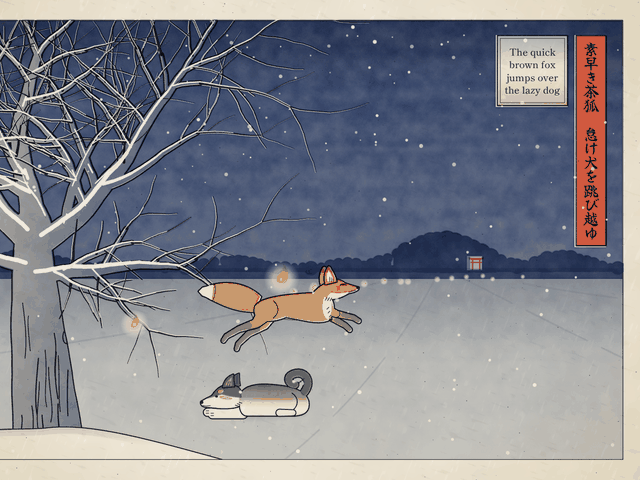
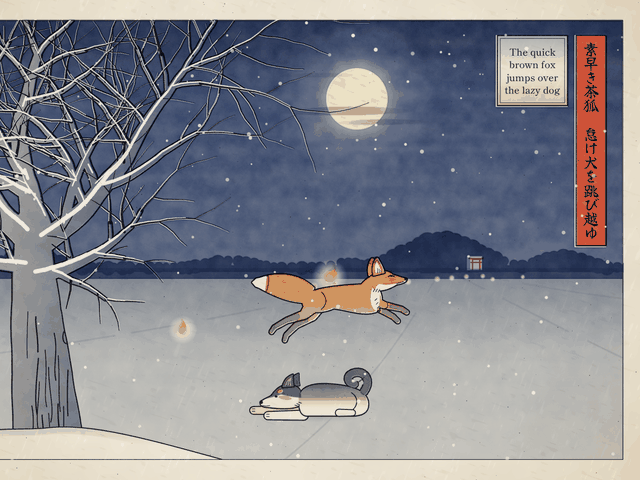
Ukiyo-e: a full moon, a tail that grows from the body, the dog moved right
Adds a full moon with a soft halo and bands of cloud. The fox's tail is
now part of the body outline, so there is no seam at its root. The dog
moves right of centre, with its two front paws clearly apart, and the
fox's leap moves with it, clear of the tree's lower limbs and a little
higher over the dog's tail.

Claude-Session: https://claude.ai/code/session_01TbJLADuK1rRcatXKhTWETe

diff --git a/public/the-quick-brown-fox-jumps-over-the-lazy-dog/ukiyoe.html b/public/the-quick-brown-fox-jumps-over-the-lazy-dog/ukiyoe.html
@@ -21,17 +21,18 @@ body{min-height:100vh;min-height:100dvh;display:grid;grid-template-rows:1fr;plac
 <body>
 <a class="back" href="/the-quick-brown-fox-jumps-over-the-lazy-dog" aria-label="All versions"><svg width="14" height="14" viewBox="0 0 14 14" aria-hidden="true" style="display:block"><path d="M11.5 7h-9M6 3 2.5 7 6 11" fill="none" stroke="currentColor" stroke-width="1.5" stroke-linecap="round" stroke-linejoin="round"/></svg></a>
 <div class="sheet">
-  <canvas id="print" role="img" aria-label="A woodblock print in the style of Hiroshige: on a snowy winter night, beneath a great bare tree and a deep blue sky, a brown fox carrying fox fires leaps over a black-and-tan shiba asleep in the snow. A red title strip reads, in Japanese, the quick brown fox jumps over the lazy dog."></canvas>
+  <canvas id="print" role="img" aria-label="A woodblock print in the style of Hiroshige: on a snowy winter night under a full moon, beside a great bare tree, a brown fox carrying fox fires leaps over a black-and-tan shiba asleep in the snow. A red title strip reads, in Japanese, the quick brown fox jumps over the lazy dog."></canvas>
 </div>
 <script>
 (() => {
 'use strict';
 /* The print is laid out on a 1500 x 1000 sheet (a horizontal oban). */
 const LW = 1500, LH = 1000, FPS = 12, CYCLE = 6.4, G = 862, HZ = 560;
+const MOON = { x: 905, y: 205, r: 64 };
 const IMG = { x: 42, y: 42, w: 1416, h: 916 };
 const reduce = matchMedia('(prefers-reduced-motion: reduce)').matches;
 const params = new URLSearchParams(location.search);
-const frozen = params.has('t') ? Number(params.get('t')) : (reduce ? 2.15 : null);
+const frozen = params.has('t') ? Number(params.get('t')) : (reduce ? 2.4 : null);
 
 const sheet = document.querySelector('.sheet');
 const view = document.getElementById('print');
@@ -215,7 +216,7 @@ function foxRig(pose, X, air) {
   const hc = Math.cos(-pose.head), hs = Math.sin(-pose.head);
   const N = [60, -30];
   const TH = (x, y) => { const [u, v] = R(N[0] * st + x * hc - y * hs, N[1] + x * hs + y * hc); return [u + tx, v + ty]; };
-  const TT = (x, y) => { const [u, v] = R(-76 * st + x, -8 + y); return [u + tx, v + ty]; };
+  const TT = (x, y) => { const [u, v] = R(-66 * st + x, -8 + y); return [u + tx, v + ty]; };
   for (const l of Object.values(legs)) l.pts = l.pts.map(([x, y]) => [x + tx, y + ty]);
   return { T, TH, TT, legs, pose, ground: ty + low };
 }
@@ -281,8 +282,8 @@ function drawFox(rig) {
   // Far legs, a shade lighter.
   figure({ shapes: [{ p: legPath(legs.fh) }, { p: legPath(legs.ff) }], fills: [['ochre', 0.62]],
     after: () => { const p = new Path2D(); p.addPath(lowerLegPath(legs.fh, 1)); p.addPath(lowerLegPath(legs.ff, 1)); ink('usuD', (x) => { x.fillStyle = white(0.95); x.fill(p); }); } });
-  figure({ shapes: [{ p: tail.all }], fills: [['ochre', (x) => { const [a, b] = rig.TT(0, -20), [c, d] = rig.TT(...tail.end); const g = x.createLinearGradient(a, b, c, d); g.addColorStop(0, white(1)); g.addColorStop(1, white(0.7)); return g; }]],
-    after: () => {
+  // The tail is part of the body's outline, so no seam shows where it joins.
+  const tailAfter = () => {
       ink('ochre', (x) => { x.globalCompositeOperation = 'destination-out'; x.fill(tail.tip); });
       // Fur lines where the white tip begins.
       ink('keyD', (x) => {
@@ -295,11 +296,12 @@ function drawFox(rig) {
         const [a, b] = rig.TT(...tail.left[i]), [c, d] = rig.TT(...tail.right[i]);
         x.beginPath(); x.moveTo(a, b); x.quadraticCurveTo((a + c) / 2 + (d - b) * 0.15, (b + d) / 2 - (c - a) * 0.15, c, d); x.lineWidth = 1.3; x.stroke();
       });
-    } });
+  };
   figure({ shapes: [{ p: ear(-10) }], fills: [['ochre', 0.85]], after: () => ink('usuD', earTip(-10)) });
   const back = (x) => { const [a, b] = T(0, -36 - arch), [c, d] = T(0, 32); const g = x.createLinearGradient(a, b, c, d); g.addColorStop(0, white(1)); g.addColorStop(0.55, white(0.82)); g.addColorStop(1, white(0.62)); return g; };
-  figure({ shapes: [{ p: torso }, { p: neck }, { p: head }, { p: legPath(legs.nh) }, { p: legPath(legs.nf) }], fills: [['ochre', back]],
+  figure({ shapes: [{ p: tail.all }, { p: torso }, { p: neck }, { p: head }, { p: legPath(legs.nh) }, { p: legPath(legs.nf) }], fills: [['ochre', back]],
     after: () => {
+      tailAfter();
       // White chest, throat and cheek: carved out of the brown block.
       ink('ochre', (x) => {
         x.globalCompositeOperation = 'destination-out';
@@ -335,7 +337,7 @@ function drawFox(rig) {
 }
 
 /* ---------- the dog ---------- */
-const DOG_X = 706;
+const DOG_X = 830;
 function drawDog(t, alert) {
   /* A black-and-tan shiba asleep in the snow, facing left: chin on its paws, ears relaxed back,
      tail curled over its back. Black saddle, tan brows and cheeks, white (urajiro) underneath. */
@@ -346,14 +348,12 @@ function drawDog(t, alert) {
   // A hollow pressed into the snow.
   ink('usuD', (x) => { x.save(); x.translate(DOG_X - 10, G + 4); x.scale(1, 0.16); const g = x.createRadialGradient(0, 0, 10, 0, 0, 130); g.addColorStop(0, white(0.5)); g.addColorStop(1, white(0)); x.fillStyle = g; x.beginPath(); x.arc(0, 0, 130, 0, Math.PI * 2); x.fill(); x.restore(); });
 
-  // Front paws, white socks, reaching out under the chin.
-  const paws = new Path2D();
-  capsule(paws, ...Tf(-50, -7), 9.5, ...Tf(-114, -5), 7.5);
-  capsule(paws, ...Tf(-40, -2), 9.5, ...Tf(-104, 0), 7.5);
-  figure({ shapes: [{ p: paws }], kw: 2.2, after: () => ink('keyD', (x) => {
-    x.strokeStyle = '#fff'; x.lineWidth = 1.2;
-    for (const [px, py] of [[-114, -5], [-104, 0]]) for (const d of [-3, 2]) { x.beginPath(); x.moveTo(...Tf(px + 3, py + d)); x.lineTo(...Tf(px - 3, py + d)); x.stroke(); }
-  }) });
+  // Front paws: the far one stretched out past the muzzle, the near one drawn back under the chest.
+  const farPaw = new Path2D(); capsule(farPaw, ...Tf(-46, -10), 8.5, ...Tf(-142, -9), 7);
+  const nearPaw = new Path2D(); capsule(nearPaw, ...Tf(-38, 1), 9.5, ...Tf(-112, 2), 7.5);
+  const toes = (px, py) => ink('keyD', (x) => { x.strokeStyle = '#fff'; x.lineWidth = 1.2; for (const d of [-3, 2]) { x.beginPath(); x.moveTo(...Tf(px + 3, py + d)); x.lineTo(...Tf(px - 3, py + d)); x.stroke(); } });
+  figure({ shapes: [{ p: farPaw }], kw: 2.1, fills: [['ochre', 0.3]], after: () => toes(-142, -9) });
+  figure({ shapes: [{ p: nearPaw }], kw: 2.2, after: () => toes(-112, 2) });
 
   // Ears: rounded triangles, set back in sleep, pricking up when the fox passes.
   const lift = alert ? 1 : 0;
@@ -465,7 +465,7 @@ function growTree() {
   limb(crown.bx - 10, crown.by + 30, -2.45, 330, 54, 16, 3, 0.025, 0.3);
   limb(crown.bx, crown.by, -1.75, 360, 52, 16, 3, 0.01, 0.3);
   limb(crown.bx + 18, crown.by + 40, -0.62, 470, 48, 12, 3, 0.006, 0.3);
-  limb(crown.bx + 6, crown.by + 110, -0.25, 300, 32, 9, 2, 0.02, 0.3);
+  limb(crown.bx + 6, crown.by + 110, -0.35, 230, 32, 9, 2, 0.02, 0.3);
   limb(crown.bx - 14, crown.by + 90, -2.9, 200, 28, 9, 2, -0.03, 0.3);
   return segs;
 }
@@ -478,7 +478,23 @@ function drawStatic() {
   ink('blue', (x) => { x.save(); x.beginPath(); x.rect(IMG.x, IMG.y, IMG.w, IMG.h); x.clip(); const g = x.createLinearGradient(0, IMG.y, 0, HZ + 20); g.addColorStop(0, white(1)); g.addColorStop(1, white(0.78)); x.fillStyle = g; x.fillRect(IMG.x, IMG.y, IMG.w, HZ + 20 - IMG.y); x.restore(); });
   ink('usu', (x) => { x.save(); x.beginPath(); x.rect(IMG.x, IMG.y, IMG.w, IMG.h); x.clip(); const g = x.createLinearGradient(0, IMG.y, 0, HZ + 20); g.addColorStop(0, white(1)); g.addColorStop(0.08, white(0.95)); g.addColorStop(0.26, white(0.42)); g.addColorStop(1, white(0.2)); x.fillStyle = g; x.fillRect(IMG.x, IMG.y, IMG.w, HZ + 20 - IMG.y); x.restore(); });
   // Stars.
-  ink('gof', (x) => { x.save(); x.beginPath(); x.rect(IMG.x, IMG.y, IMG.w, IMG.h); x.clip(); for (let i = 0; i < 90; i++) { const sx = IMG.x + r() * IMG.w, sy = IMG.y + 30 + r() * (HZ - 120 - IMG.y); x.fillStyle = white(0.55 + r() * 0.4); x.beginPath(); x.arc(sx, sy, 0.9 + r() * 1.5, 0, Math.PI * 2); x.fill(); } x.restore(); });
+  ink('gof', (x) => { x.save(); x.beginPath(); x.rect(IMG.x, IMG.y, IMG.w, IMG.h); x.clip(); for (let i = 0; i < 90; i++) { const sx = IMG.x + r() * IMG.w, sy = IMG.y + 30 + r() * (HZ - 120 - IMG.y); if (Math.hypot(sx - MOON.x, sy - MOON.y) < MOON.r * 2.6) continue; x.fillStyle = white(0.55 + r() * 0.4); x.beginPath(); x.arc(sx, sy, 0.9 + r() * 1.5, 0, Math.PI * 2); x.fill(); } x.restore(); });
+
+  // The full moon: carved out of the night blocks, with a soft halo and a band of cloud across it.
+  ['blue', 'usu'].forEach((n) => ink(n, (x) => {
+    x.globalCompositeOperation = 'destination-out';
+    const g = x.createRadialGradient(MOON.x, MOON.y, MOON.r, MOON.x, MOON.y, MOON.r * 2.6);
+    g.addColorStop(0, white(n === 'usu' ? 0.85 : 0.45)); g.addColorStop(0.25, white(n === 'usu' ? 0.5 : 0.2)); g.addColorStop(1, white(0));
+    x.fillStyle = g; x.beginPath(); x.arc(MOON.x, MOON.y, MOON.r * 2.6, 0, Math.PI * 2); x.fill();
+    x.fillStyle = white(1); x.beginPath(); x.arc(MOON.x, MOON.y, MOON.r, 0, Math.PI * 2); x.fill();
+  }));
+  const cloud = (cx, cy, w, h) => { const p = new Path2D(); p.moveTo(cx - w / 2, cy); p.bezierCurveTo(cx - w / 4, cy - h, cx + w / 4, cy - h * 1.1, cx + w / 2, cy - h * 0.2); p.bezierCurveTo(cx + w / 4, cy + h * 0.5, cx - w / 4, cy + h * 0.6, cx - w / 2, cy); return p; };
+  ink('usu', (x) => {
+    for (const [cx, cy, w, h, a] of [[880, 236, 300, 15, 0.75], [960, 258, 210, 10, 0.6], [820, 160, 170, 8, 0.4]]) {
+      const g = x.createLinearGradient(cx - w / 2, 0, cx + w / 2, 0); g.addColorStop(0, white(0)); g.addColorStop(0.3, white(a)); g.addColorStop(0.7, white(a)); g.addColorStop(1, white(0));
+      x.fillStyle = g; x.fill(cloud(cx, cy, w, h));
+    }
+  });
 
   // The snow field: faintly blue, greyer towards the horizon.
   ink('ai', (x) => { x.save(); x.beginPath(); x.rect(IMG.x, IMG.y, IMG.w, IMG.h); x.clip(); const g = x.createLinearGradient(0, HZ, 0, IMG.y + IMG.h); g.addColorStop(0, white(0.62)); g.addColorStop(0.4, white(0.36)); g.addColorStop(1, white(0.24)); x.fillStyle = g; x.fillRect(IMG.x, HZ, IMG.w, IMG.y + IMG.h - HZ); x.restore(); });
@@ -607,7 +623,7 @@ function drawStatic() {
 const flakes = (() => { const r = rng(91); return Array.from({ length: 150 }, () => ({ x: r() * 1600 - 50, y: r() * 1100, v: 34 + r() * 46, s: 1.6 + r() * 2.6, ph: r() * 6.28, a: 0.6 + r() * 0.4 })); })();
 const procession = (() => { const r = rng(3); return Array.from({ length: 14 }, (_, i) => { const u = i / 13; return { x: lerp(1240, 760, u) + (r() - 0.5) * 40, y: lerp(HZ + 18, HZ + 46, u * u) + (r() - 0.5) * 6, s: lerp(0.18, 0.34, u), ph: r() * 9 }; }); })();
 
-const X0 = -240, XT = 470, XL = 1000, X1 = 1760, V = 430, LEAP = 0.85, PEAK = 135;
+const X0 = -240, XT = 594, XL = 1124, X1 = 1760, V = 430, LEAP = 0.85, PEAK = 150;
 const tTake = (XT - X0) / V, tLand = tTake + LEAP, tEnd = tLand + (X1 - XL) / V;
 function foxAt(t) {
   if (t < tTake) {
@@ -618,7 +634,7 @@ function foxAt(t) {
   }
   if (t < tLand) {
     const p = (t - tTake) / LEAP, x = lerp(XT, XL, p), air = 4 * PEAK * p * (1 - p);
-    const keys = [[0, 'takeoff'], [0.28, 'flight'], [0.66, 'flight'], [0.86, 'reach'], [1, 'land']];
+    const keys = [[0, 'takeoff'], [0.28, 'flight'], [0.7, 'flight'], [0.9, 'reach'], [1, 'land']];
     let i = 0; while (i < keys.length - 2 && p > keys[i + 1][0]) i++;
     const [p0, a] = keys[i], [p1, b] = keys[i + 1];
     return { x, air, pose: mix(POSES[a], POSES[b], clamp((p - p0) / (p1 - p0), 0, 1)) };
@@ -631,12 +647,14 @@ function foxAt(t) {
 function drawDynamic(time) {
   ['ochre', 'keyD', 'ki', 'gofD', 'ko', 'usuD'].forEach((n) => clear(PL[n]));
   const t = ((time % CYCLE) + CYCLE) % CYCLE;
+  // A pale yellow wash on the moon.
+  ink('ki', (x) => { x.fillStyle = white(0.32); x.beginPath(); x.arc(MOON.x, MOON.y, MOON.r, 0, Math.PI * 2); x.fill(); });
   // Distant fox fires gathering at the grove.
   for (const p of procession) fire(p.x, p.y + Math.sin(time * 1.3 + p.ph) * 2, p.s, time + p.ph);
 
   const fox = t < tEnd ? foxAt(t) : null;
   const alert = t > tTake - 0.1 && t < tLand + 1.2;
-  setBox(DOG_X - 190, G - 110, 360, 150);
+  setBox(DOG_X - 190, G - 120, 360, 160);
   drawDog(time, alert);
 
   if (fox && fox.x > -200 && fox.x < 1720) {

diff --git a/public/the-quick-brown-fox-jumps-over-the-lazy-dog.html b/public/the-quick-brown-fox-jumps-over-the-lazy-dog.html
@@ -75,7 +75,7 @@ footer .source:hover{text-decoration:underline;text-underline-offset:.25em}
       <span>Terminal ASCII</span>
     </a></li>
     <li><a href="/the-quick-brown-fox-jumps-over-the-lazy-dog/ukiyoe">
-      <img class="smooth" src="/the-quick-brown-fox-jumps-over-the-lazy-dog/assets/thumbs/ukiyoe.png" width="640" height="480" alt="A woodblock print of a snowy winter night: beneath a bare tree, a brown fox with fox fires leaps over a black-and-tan shiba asleep in the snow, with a red title strip in Japanese.">
+      <img class="smooth" src="/the-quick-brown-fox-jumps-over-the-lazy-dog/assets/thumbs/ukiyoe.png" width="640" height="480" alt="A woodblock print of a snowy, moonlit winter night: beside a bare tree, a brown fox with fox fires leaps over a black-and-tan shiba asleep in the snow, with a red title strip in Japanese.">
       <span>Ukiyo-e Woodblock</span>
     </a></li>
     <li class="soon" aria-label="More styles still brewing">
